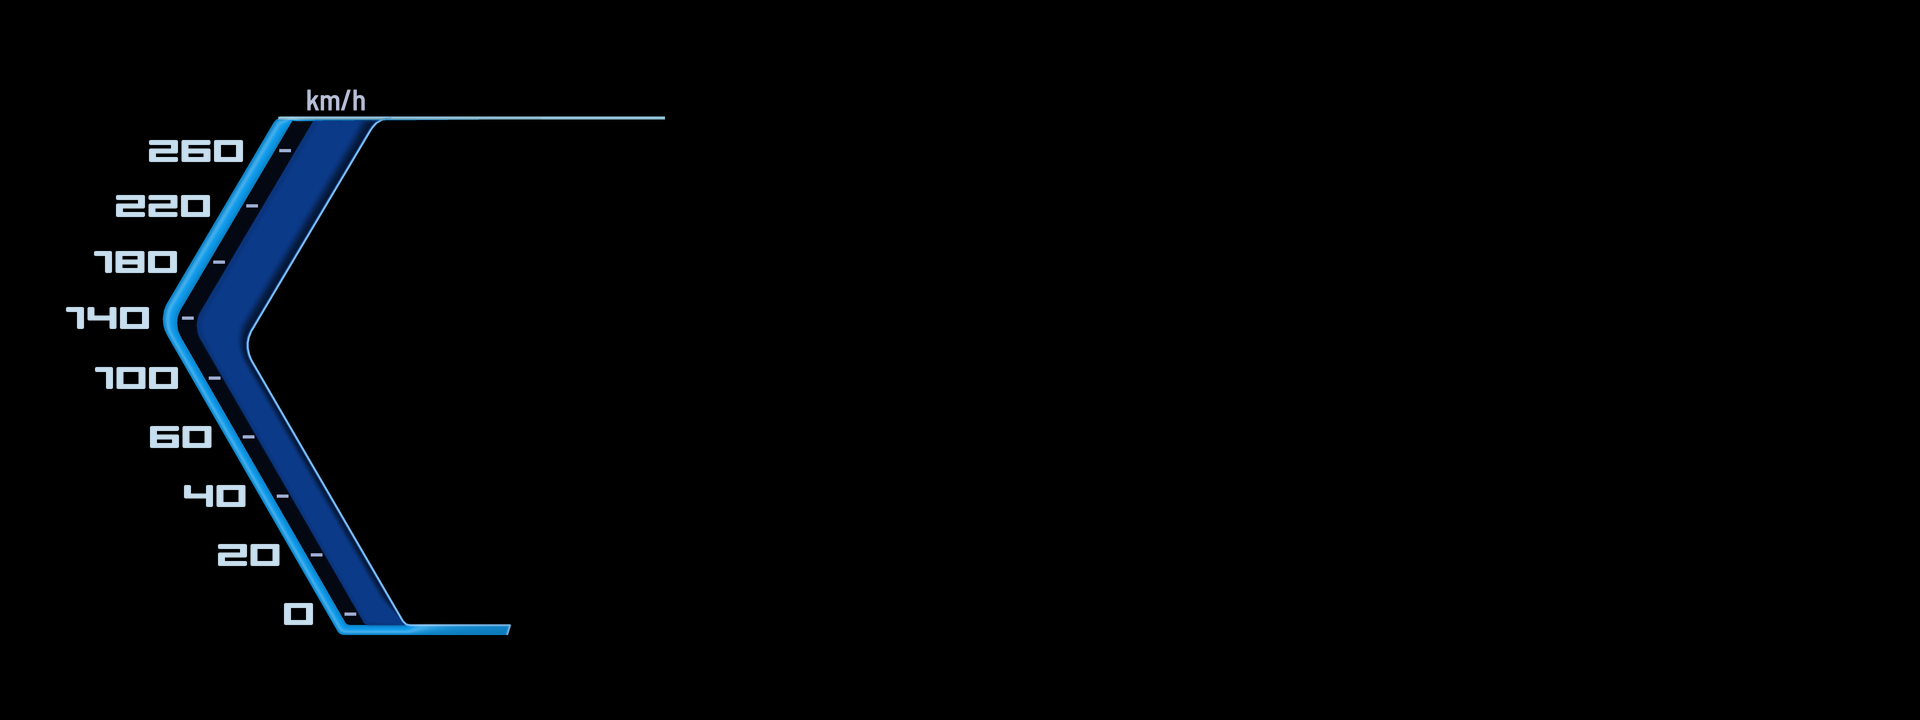
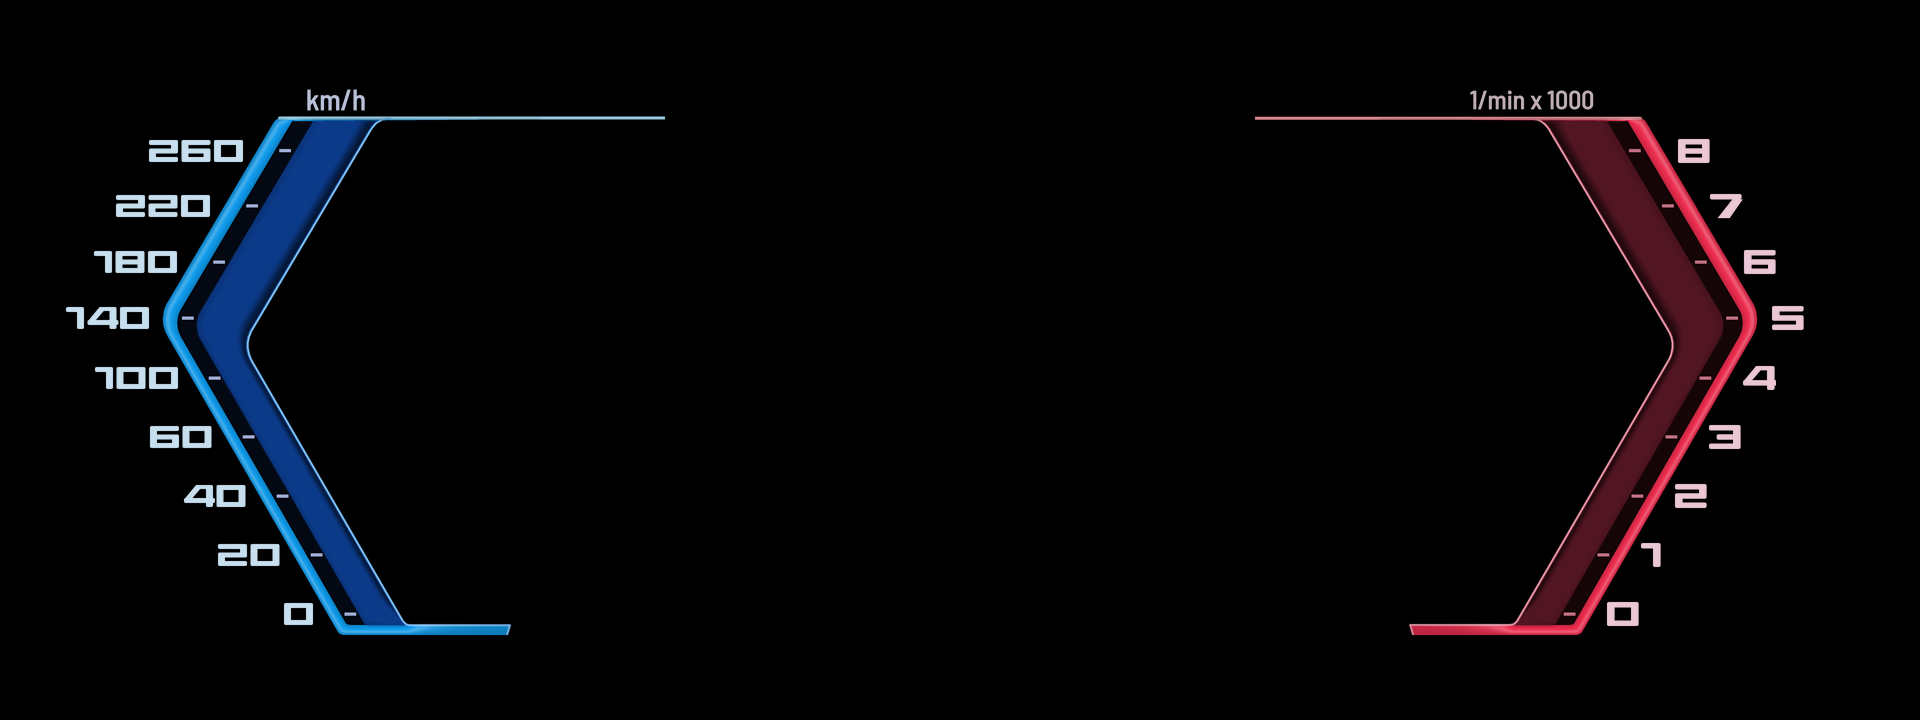
cluster: ID8-A right bracket: the left one's exact mirror, red colours, rev marks and numbers 0-8, 1/min x 1000
config.json: bracket_right has mirror_of bracket_left, so the geometry is one; only its colours,
scale, numbers (left-aligned) and label are its own. The digit 4 is BMW's (slanted left stroke).

Claude-Session: https://claude.ai/code/session_01APCM7bQyWwkFmahRh5zUds

Changed region(s): [[0.6562, 0.1222, 0.9375, 0.8861], [0.0938, 0.6722, 0.125, 0.7028], [0.0312, 0.4278, 0.0625, 0.4583]]

diff --git a/cluster/tools/gen_static.py b/cluster/tools/gen_static.py
@@ -58,9 +58,26 @@ def to_px(cfg, pts):
     return [(p[0] * W, p[1] * H, p[2] if len(p) > 2 else 0) for p in pts]
 
 
+def expand(cfg):
+    """Elements with "mirror_of" get the source's geometry mirrored about x 0.5 (and its bevel); marks and numbers
+    then go to the other side of their lines ("_side": "right"). Idempotent."""
+    for el in cfg['elements'].values():
+        src = cfg['elements'].get(el.get('mirror_of', ''))
+        if not src:
+            continue
+        for key in ('outline', 'parallel', 'band', 'inner'):
+            if key in src and key not in el:
+                el[key] = [[round(1 - p[0], 6)] + list(p[1:]) for p in src[key]]
+        if 'bevel' in src and 'bevel' not in el:
+            el['bevel'] = src['bevel']
+        el['_side'] = 'right'
+    return cfg
+
+
 def outlines(cfg):
     """Every element's outline as a dense px polyline (the reference for --compare)."""
     out = {}
+    expand(cfg)
     for name, el in cfg['elements'].items():
         for key in ('outline', 'parallel', 'band', 'inner'):
             if key in el:
@@ -76,11 +93,12 @@ def x_on(poly, y):
     return None
 
 
-def tick_rects(cfg):
-    """Every element's graduated marks as [x0, y0, x1, y1] px: level dashes measured from its parallel."""
+def tick_rects(cfg, only=None):
+    """Every element's (or only that one's) graduated marks as [x0, y0, x1, y1] px: level dashes from its parallel."""
     W, H = cfg['grid']
     out = []
-    for el in cfg['elements'].values():
+    expand(cfg)
+    for el in ([only] if only is not None else cfg['elements'].values()):
         t = el.get('ticks')
         if not t or 'parallel' not in el:
             continue
@@ -89,7 +107,9 @@ def tick_rects(cfg):
             y = yn * H
             x = x_on(par, y)
             if x is not None:
-                out.append([x + t['start'], y - t['thick'] / 2, x + t['start'] + t['length'], y + t['thick'] / 2])
+                s = -1 if el.get('_side') == 'right' else 1             # inwards, away from the outer profile
+                xa, xb = x + s * t['start'], x + s * (t['start'] + t['length'])
+                out.append([min(xa, xb), y - t['thick'] / 2, max(xa, xb), y + t['thick'] / 2])
     return out
 
 
@@ -174,7 +194,7 @@ DIGITS = {
     '1': [(0, 0, 18, 5), (11, 0, 18, 22)],
     '2': [_T, _M, _B, (_R, 0, 29, 13.5), (0, 8.5, _L, 22)],
     '3': [_T, (7, 8.5, 29, 13.5), _B, (_R, 0, 29, 22)],
-    '4': [(0, 0, _L, 13.5), _M, (_R, 0, 29, 22)],
+    '4': [(12, 0, 29, 4), ('quad', (12, 0), (19.5, 0), (7, 14.5), (0, 14.5)), (0, 13, 31, 18), (_R, 0, 29, 22)],   # BMW's: a slanted left stroke, the bar low and past the upright
     '5': [_T, (0, 0, _L, 13.5), _M, (_R, 8.5, 29, 22), _B],
     '6': [_T, (0, 0, _L, 22), _M, (_R, 8.5, 29, 22), _B],
     '7': [_T, ('quad', (20.5, 5), (30, 5), (18, 22), (7, 22))],
@@ -184,12 +204,12 @@ DIGITS = {
 DIGIT_W = {'1': 18}
 
 
-def draw_number(img, text, x_right, y_mid, h, advance, color, ss=8):
-    """Text of BMW's digits into img (RGBA, grid px), right edge at x_right, centred on y_mid, h px tall."""
+def draw_number(img, text, x_edge, y_mid, h, advance, color, ss=8, align='right'):
+    """Text of BMW's digits into img (RGBA, grid px), its right (or left) edge at x_edge, centred on y_mid, h px tall."""
     k = h / 22.0
     widths = [DIGIT_W.get(ch, 29) * k for ch in text]
     total = sum(widths) + (advance - 29) * k * (len(text) - 1)
-    x0, y0 = x_right - total, y_mid - h / 2
+    x0, y0 = (x_edge - total if align == 'right' else x_edge), y_mid - h / 2
     W, H = int(total) + 4, int(h) + 4
     m = Image.new('L', (W * ss, H * ss), 0)
     d = ImageDraw.Draw(m)
@@ -218,7 +238,9 @@ def draw_numbers(img, cfg):
         out = fillet_polyline(to_px(cfg, el['outline']))
         for v, yn in zip(el['ticks']['scales'][n['scale']], el['ticks']['y']):
             y = yn * H
-            draw_number(img, str(v), x_on(out, y) - n['gap'], y, n['h'], n['advance'], n['color'])
+            left = n.get('align') == 'left'
+            draw_number(img, str(v), x_on(out, y) + (n['gap'] if left else -n['gap']), y, n['h'], n['advance'],
+                        n['color'], align='left' if left else 'right')
 
 
 FONTS = os.path.join(ROOT, 'tools', 'fonts-src')
@@ -255,6 +277,7 @@ def draw_labels(img, cfg, ss=8):
 
 def build_static(cfg):
     """The static layer, RGBA at grid size: each bracket filled zone by zone (band, gap, stripe), then its lines and marks."""
+    expand(cfg)
     W, H = cfg['grid']
     img = Image.new('RGBA', (W * SS, H * SS), (0, 0, 0, 255))
     d = ImageDraw.Draw(img)
@@ -271,7 +294,7 @@ def build_static(cfg):
         top = [p for p in out if p[1] <= out[0][1] + 0.5]                       # the top line (level part)
         d.line(sc(top), fill=tuple(col['top_line']), width=3 * SS)
         d.line(sc(fillet_polyline(to_px(cfg, el['inner']))[1:]), fill=tuple(col['inner_line']), width=2 * SS, joint='curve')
-        for x0, y0, x1, y1 in tick_rects(cfg):
+        for x0, y0, x1, y1 in tick_rects(cfg, el):
             d.rectangle([x0 * SS, y0 * SS, x1 * SS, y1 * SS], fill=tuple(col['tick']))
     img = img.resize((W, H), Image.LANCZOS)
     for el in cfg['elements'].values():
